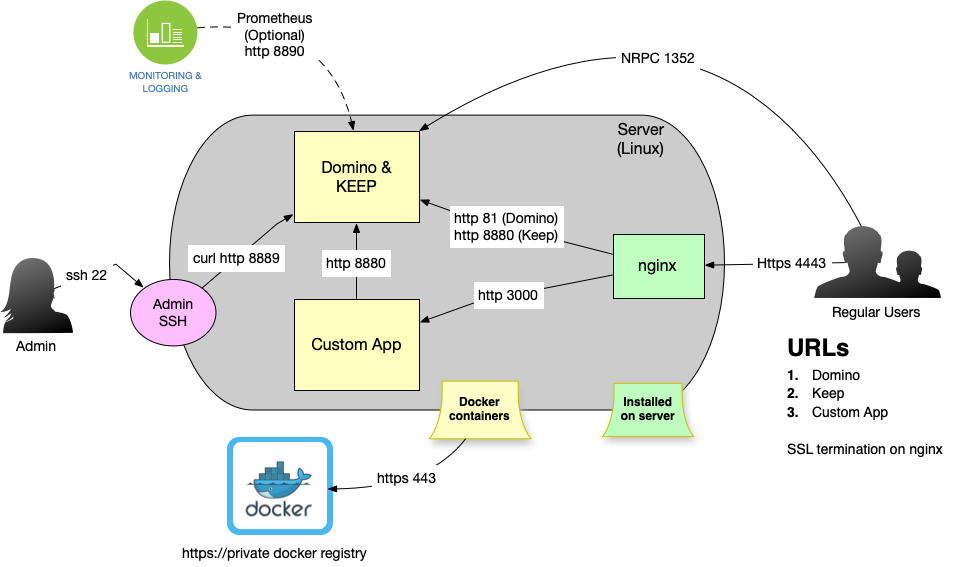
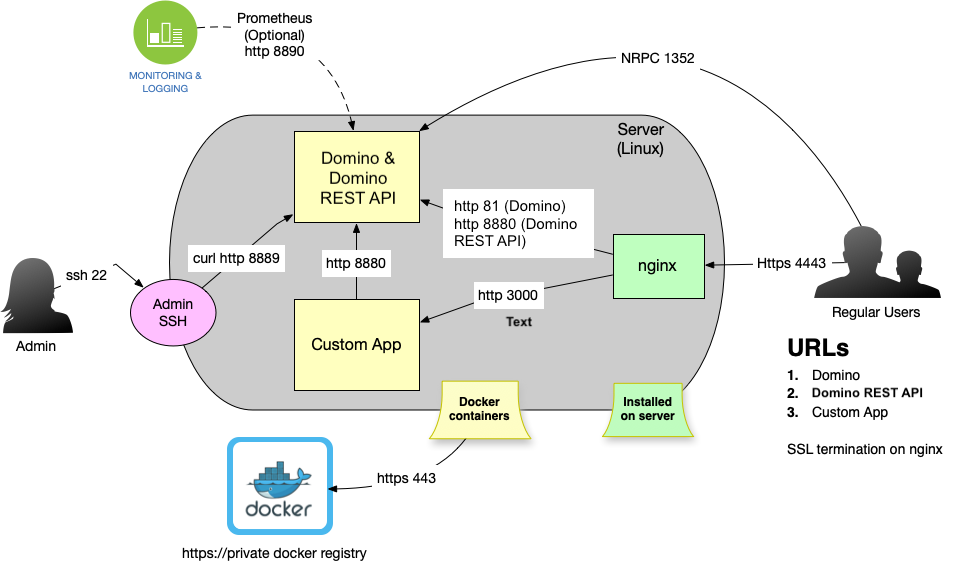
MXGO-807

diff --git a/docs/tutorial/installconfig/win.md b/docs/tutorial/installconfig/win.md
@@ -28,28 +28,14 @@ java -jar restapiInstall.jar ^
 
 ## All parameters
 
-| Short | Full parameter              | Mandatory | Description                                                                                                                                                                                                                                                                                              |
-| :---: | --------------------------- | :-------: | -------------------------------------------------------------------------------------------------------------------------------------------------------------------------------------------------------------------------------------------------------------------------------------------------------- |
-| `-d`  | `--dataDir=<dataDir>`       |     ✓     | Directory of your HCL Notes or Domino data.                                                                                                                                                                                                                                                              |
-| `-i`  | `--ini=<notesIni>`          |     ✓     | HCL Notes/Domino notes.ini file.                                                                                                                                                                                                                                                                         |
-| `-r`  | `--restapiDir=<restapiDir>` |     ✓     | Directory to install the Domino REST API files into.                                                                                                                                                                                                                                                     |
-| `-p`  | `--programDir=<programDir>` |     ✓     | Directory where HCL Notes or Domino is installed.                                                                                                                                                                                                                                                        |
-|       |                             |           |                                                                                                                                                                                                                                                                                                          |
-| `-u`  | `--upgrade`                 |           | Performs an upgrade from a previous version. Upgrade will remove known<br />program files and libraries from the Domino REST API directory and install the new<br />version into the same directory.                                                                                                     |
-| `-f`  | `--forceUpgrade`            |           | Performs an upgrade without regard to the previous version. If an unknown<br />version or unexpected files are found in the Domino REST API directory, this option will delete<br />the entire contents of the Domino REST API directory and subdirectories first before installing<br/>the new version. |
-| `-a`  | `--accept`                  |           | Automatically accept terms & conditions.                                                                                                                                                                                                                                                                 |
-| `-h`  | `--help`                    |           | Show this help message and exit.                                                                                                                                                                                                                                                                         |
-| `-n`  | `--noIniUpdates`            |           | Install the files, show updated ini entries but don't write them out.                                                                                                                                                                                                                                    |
-| `-o`  | `--oneTouchInstall`         |           | If installing Domino REST API as part of a Domino One Touch Install, use this option<br />to prevent checking for Notes / Domino directories and notes.ini.                                                                                                                                              |
-| `-y`  | `--dryRun`                  |           | Do not actually copy or alter files and settings.                                                                                                                                                                                                                                                        |
-| `-s`  | `--skipDirectoryCheck`      |           | Skips the checks if the program and data directories<br />contain Notes or Domino.                                                                                                                                                                                                                       |
-| `-V`  | `--version`                 |           | Print version information and exit.                                                                                                                                                                                                                                                                      |
+--8<-- "installparameters.md"
+
 
 The installer adds the `restapi` task to the automatically starting tasks. If opted out using `-n` you must manually add the `KeepInstallDir` key into your `notes.ini` and then can subsequently issue `load restapi` manually in the Domino console.
 
 For more information, see [Domino REST API task](../../references/usingdominorestapi/restapitask.md).
 
-### Verify the installation
+## Verify the installation
 
 On a new Domino REST API installation, the following actions are performed:
 

diff --git a/docs/tutorial/installconfig/linux.md b/docs/tutorial/installconfig/linux.md
@@ -19,22 +19,8 @@ sudo java -jar restapiInstall.jar \
 
 ## All parameters
 
-| Short | Full parameter              | Mandatory | Description                                                                                                                                                                                                                                                                                              |
-| :---: | --------------------------- | :-------: | -------------------------------------------------------------------------------------------------------------------------------------------------------------------------------------------------------------------------------------------------------------------------------------------------------- |
-| `-d`  | `--dataDir=<dataDir>`       |     ✓     | Directory of your HCL Notes or Domino data.                                                                                                                                                                                                                                                              |
-| `-i`  | `--ini=<notesIni>`          |     ✓     | HCL Notes/Domino notes.ini file.                                                                                                                                                                                                                                                                         |
-| `-r`  | `--restapiDir=<restapiDir>` |     ✓     | Directory to install the Domino REST API files into.                                                                                                                                                                                                                                                     |
-| `-p`  | `--programDir=<programDir>` |     ✓     | Directory where HCL Notes or Domino is installed.                                                                                                                                                                                                                                                        |
-|       |                             |           |                                                                                                                                                                                                                                                                                                          |
-| `-u`  | `--upgrade`                 |           | Performs an upgrade from a previous version. Upgrade will remove known<br />program files and libraries from the Domino REST API directory and install the new<br />version into the same directory.                                                                                                     |
-| `-f`  | `--forceUpgrade`            |           | Performs an upgrade without regard to the previous version. If an unknown<br />version or unexpected files are found in the Domino REST API directory, this option will delete<br />the entire contents of the Domino REST API directory and subdirectories first before installing<br/>the new version. |
-| `-a`  | `--accept`                  |           | Automatically accept terms & conditions.                                                                                                                                                                                                                                                                 |
-| `-h`  | `--help`                    |           | Show this help message and exit.                                                                                                                                                                                                                                                                         |
-| `-n`  | `--noIniUpdates`            |           | Install the files, show updated ini entries but don't write them out.                                                                                                                                                                                                                                    |
-| `-o`  | `--oneTouchInstall`         |           | If installing Domino REST API as part of a Domino One Touch Install, use this option<br />to prevent checking for Notes / Domino directories and notes.ini.                                                                                                                                              |
-| `-y`  | `--dryRun`                  |           | Do not actually copy or alter files and settings.                                                                                                                                                                                                                                                        |
-| `-s`  | `--skipDirectoryCheck`      |           | Skips the checks if the program and data directories<br />contain Notes or Domino.                                                                                                                                                                                                                       |
-| `-V`  | `--version`                 |           | Print version information and exit.                                                                                                                                                                                                                                                                      |
+--8<-- "installparameters.md"
+
 
 The installer adds the `restapi` task to the automatically starting tasks. If opted out using `-n`, you must manually add the `KeepInstallDir` key into your `notes.ini` and then can subsequently issue `load restapi` manually in the Domino console.
 

diff --git a/docs/tutorial/installconfig/mac.md b/docs/tutorial/installconfig/mac.md
@@ -20,22 +20,7 @@ java -jar restapiInstall.jar \
 
 ## All parameters
 
-| Short | Full parameter              | Mandatory | Description                                                                                                                                                                                                                                                                                              |
-| :---- | --------------------------- | :-------: | -------------------------------------------------------------------------------------------------------------------------------------------------------------------------------------------------------------------------------------------------------------------------------------------------------- |
-| `-d`  | `--dataDir=<dataDir>`       |     ✓     | Directory of your HCL Notes or Domino data.                                                                                                                                                                                                                                                              |
-| `-i`  | `--ini=<notesIni>`          |     ✓     | HCL Notes/Domino notes.ini file.                                                                                                                                                                                                                                                                         |
-| `-r`  | `--restapiDir=<restapiDir>` |     ✓     | Directory to install the Domino REST API files into.                                                                                                                                                                                                                                                     |
-| `-p`  | `--programDir=<programDir>` |     ✓     | Directory where HCL Notes or Domino is installed.                                                                                                                                                                                                                                                        |
-|       |                             |           |                                                                                                                                                                                                                                                                                                          |
-| `-u`  | `--upgrade`                 |           | Performs an upgrade from a previous version. Upgrade will remove known<br />program files and libraries from the Domino REST API directory and install the new<br />version into the same directory.                                                                                                     |
-| `-f`  | `--forceUpgrade`            |           | Performs an upgrade without regard to the previous version. If an unknown<br />version or unexpected files are found in the Domino REST API directory, this option will delete<br />the entire contents of the Domino REST API directory and subdirectories first before installing<br/>the new version. |
-| `-a`  | `--accept`                  |           | Automatically accept terms & conditions.                                                                                                                                                                                                                                                                 |
-| `-h`  | `--help`                    |           | Show this help message and exit.                                                                                                                                                                                                                                                                         |
-| `-n`  | `--noIniUpdates`            |           | Install the files, show updated ini entries but don't write them out.                                                                                                                                                                                                                                    |
-| `-o`  | `--oneTouchInstall`         |           | If installing Domino REST API as part of a Domino One Touch Install, use this option<br />to prevent checking for Notes / Domino directories and notes.ini.                                                                                                                                              |
-| `-y`  | `--dryRun`                  |           | Do not actually copy or alter files and settings.                                                                                                                                                                                                                                                        |
-| `-s`  | `--skipDirectoryCheck`      |           | Skips the checks if the program and data directories<br />contain Notes or Domino.                                                                                                                                                                                                                       |
-| `-V`  | `--version`                 |           | Print version information and exit.                                                                                                                                                                                                                                                                      |
+--8<-- "installparameters.md"
 
 The installer creates a `runrestapi.sh` script in the Domino REST API installation directory. Run it to launch the Domino REST API. You can copy or move the script to `~/bin` to add it to the macOS path.
 

diff --git a/docs/tutorial/swagger.md b/docs/tutorial/swagger.md
@@ -12,19 +12,25 @@ The [SwaggerUI](https://github.com/swagger-api/swagger-ui) is an OpenSource comp
 
 1. Go to [SwaggerUI](http://localhost:8880/openapi/index.html).
 
-2. Provide the server variables as shown:
+2. Select your server from the **Servers** drop-down list.
 
       ![JwtToken](../assets/images/TokenJwt.png)
 
-3. Create the JWT token for authorization: Scroll to the authentication section, expand it and expand the `/auth` end point. Click on "Try it out". Update the request body with username and password and click execute. When your credentials are valid, the returned JSON will contain the JWT token in the `bearer` element. Copy the token.
+3. Create the JWT token for authorization.
+
+      1. Go to and expand **authentication**, and then go to and expand the **POST /auth** endpoint. 
+	2. In the **Request body**, update the `username` and `password`, and then click **Execute**. When your credentials are valid, the returned JSON has the JWT token in the `bearer` element.
+	3. Copy the JWT token. 
 
       ![Swagger login](../assets/images/ApiSwaggerLogin.png)
 
-4. Scroll back up to the Authorize button, click it, paste the JWT token in and click **Authorize**.
+4. Scroll back up and click **Authorize**.
+5. In the **Available authorizations** dialog, paste the JWT token in the **Value** field under **jwt (http, Bearer)**, and then click **Authorize**.
 
       ![JwtToken1](../assets/images/TokenJwt1.png)
 
-5. Scroll to the data section, expand it, scroll to "POST /document", expand it. Click on "Try it out", enter all the mandatory field values (like below), and then click **Execute**.
+6. Go to and expand **data**, and then go to and expand the **POST /document** endpoint.
+7. In the **Request body**, enter all the mandatory field values as shown below, and then click **Execute**.
 
    ```json
    {
@@ -43,20 +49,24 @@ The [SwaggerUI](https://github.com/swagger-api/swagger-ui) is an OpenSource comp
 
 ### List views with SwaggerUI
 
-1. Follow Steps of authorization from above.
-
-2. Go to the required API, enter the dataSource value, and then click **Execute**.
+1. Follow the authorization steps in [Create a document with SwaggerUI](#create-a-document-with-swaggerui).
+2. Go to and expand **data**, and then go to and expand the **GET /lists** endpoint.
+3. In the **dataSource**, enter the scope name, and then click **Execute**.   
 
    ![SwaggerAPIViews](../assets/images/ApiSwaggerViews.png)
 
-### View the SwaggerUI for a specific KEEP Database
+### View the SwaggerUI for a specific Domino REST API database
 
-1. In the Explore field in the banner, enter `/api/v1/openapi?dataSource=demo`. This will display the KEEP OpenAPI specification specifically for the demo database.
+1. Select your specific Domino REST API database from the **Select a definition** drop-down list. 
+2. Review the endpoints. The admin and design APIs aren't included since they're not appropriate for accessing the demo database's data. The `dataSource` parameter is always "demo" because the OpenAPI specification is for that Domino REST API database.
+      
+      ![SwaggerAPIDatabase](../assets/images/ApiSwaggerDatabase.png)
 
-2. Review the endpoints. The admin and design APIs aren't included since they're not appropriate for accessing the demo database's data. The `dataSource` parameter is always "demo" because the OpenAPI specification is for that Keep database.
+3. Review the Schemas at the bottom. If you haven't specified read/write fields on a form, you'll see the genericFormResponse/genericFormRequest. If you have specified read or write fields, you'll see a schema for `formName-modeName Responses`/`formName-modeName Requests`.
 
-3. Review the Schemas at the bottom. If you haven't specified read/write fields on a form, you will see the genericFormResult/genericFormRequest. If you have specified read or write fields, you will see a schema for `_formName_-_modeName_ Responses`/`_formName_-_modeName_ Requests`.
+   
+You can share the specific Domino REST API database to other developers who also consume the Domino REST API for that database by copying the URL and then sending it to those developers. 
 
-   ![SwaggerAPIDatabase](../assets/images/ApiSwaggerDatabase.png)
+<!--If you URL encode `/api/v1/openapi?dataSource=demo`, you can create a URL to share with developers who consume the Domino REST API for that database. The URL encoded value should be appended as the "url" querystring parameter. The resulting URL will look like `http://localhost:8880/openapi/index.html?url=/api/v1/openapi%3FdataSource%3Ddemo`, where the Domino REST API database name is after the `%3D` (url encoded "=").
 
-If you URL encode `/api/v1/openapi?dataSource=demo`, you can create a URL to share with developers who consume the Domino REST API for that database. The URL encoded value should be appended as the "url" querystring parameter. The resulting URL will look like `http://localhost:8880/openapi/index.html?url=/api/v1/openapi%3FdataSource%3Ddemo`, where the Domino REST API database name is after the `%3D` (url encoded "=").
+1. In the Explore field in the banner, enter `/api/v1/openapi?dataSource=demo`. This will display the KEEP OpenAPI specification specifically for the demo database.-->

diff --git a/docs/.snippets/installparameters.md b/docs/.snippets/installparameters.md
@@ -1,0 +1,15 @@
+| Short | Full&nbsp;parameter&nbsp;&nbsp;&nbsp;&nbsp;&nbsp;&nbsp;&nbsp;&nbsp;&nbsp;&nbsp;&nbsp;&nbsp;&nbsp;&nbsp;&nbsp;&nbsp;&nbsp;&nbsp;&nbsp;&nbsp;&nbsp;&nbsp;&nbsp;&nbsp;&nbsp;&nbsp;&nbsp;&nbsp; | Description |
+|---|----|----|
+| `-d` | `--dataDir=<dataDir>` | Directory of your HCL Notes or Domino data.</br>**Mandatory** |
+| `-i` | `--ini=<notesIni>` | HCL Notes/Domino notes.ini file.</br>**Mandatory** |
+| `-r` | `--restapiDir=<restapiDir>` | Directory to install the Domino REST API files into.</br>**Mandatory** |
+| `-p` | `--programDir=<programDir>` | Directory where HCL Notes or Domino is installed.</br>**Mandatory** |
+| `-u` | `--upgrade` | Performs an upgrade from a previous version. Upgrade will remove known program files and libraries from the Domino REST API directory and install the new version into the same directory. |
+| `-f` | `--forceUpgrade` | Performs an upgrade without regard to the previous version. If an unknown version or unexpected files are found in the Domino REST API directory, this option will delete the entire contents of the Domino REST API directory and subdirectories first before installing the new version. |
+| `-a` | `--accept` | Automatically accepts terms & conditions.|
+| `-h` | `--help` | Shows help message and exits.|
+| `-n`  | `--noIniUpdates` | Installs the files, shows updated ini entries, but doesn't write them out.|
+| `-o`  | `--oneTouchInstall` | If installing Domino REST API as part of a Domino One Touch Install, use this option to prevent checking for Notes / Domino directories and notes.ini.|
+| `-y`  | `--dryRun` | Doesn't actually copy or alter files and settings.|
+| `-s`  | `--skipDirectoryCheck` | Skips the checks if the program and data directories contain Notes or Domino.|
+| `-V` | `--version` | Prints version information and exits.|

diff --git a/docs/.snippets/limitclientuse.md b/docs/.snippets/limitclientuse.md
@@ -1,10 +1,10 @@
 ## Limitations to client use
 
-- Use is for evaluation only, do not use for production.
+- Use is for evaluation only, don't use for production.
 - You can't run the Notes client while you are running the Domino REST API against your local Notes install.
 - The Notes client must have the **Don't prompt for a password from other Notes-based programs** option set. This option is in the Security/User Security menu.
 
     ![Notes security](../../assets/images/NotesSecurity.png)
 
-- If your organization has a policy to disable the **Don't prompt for a password from other Notes-based programs**, you may need to go into Notes, disable and immediately quit Notes.  Next time you go into Notes, this setting will be again disabled.
-- On the first time run of `runrestapi`, even with **Don't prompt for a password from other Notes-based programs** set, you may be prompted to enter your Notes password in the java window that the Domino REST API is running in.  Even if the message prompt has scrolled, you can type in your password and Enter. Notes is prompting because Domino REST API is creating 2 databases needed to be run the API.
+- If your organization has a policy to disable the **Don't prompt for a password from other Notes-based programs**, you may need to go into Notes, disable and immediately quit Notes. Next time you go into Notes, this setting will be again disabled.
+- On the first time run of `runrestapi`, even with **Don't prompt for a password from other Notes-based programs** set, you may be prompted to enter your Notes password in the java window that the Domino REST API is running in. Even if the message prompt has scrolled, you can type in your password and Enter. Notes is prompting because Domino REST API is creating 2 databases needed to run the API.

diff --git a/docs/topicguides/KeepFactory-and-caches.md b/docs/topicguides/KeepFactory-and-caches.md
@@ -1,9 +1,4 @@
----
-#layout: default
-title: Factories and Caches
-#parent: How the Domino REST API Works
-#nav_order: 6
----
+# Factories and Caches
 
 ## KeepFactory
 
